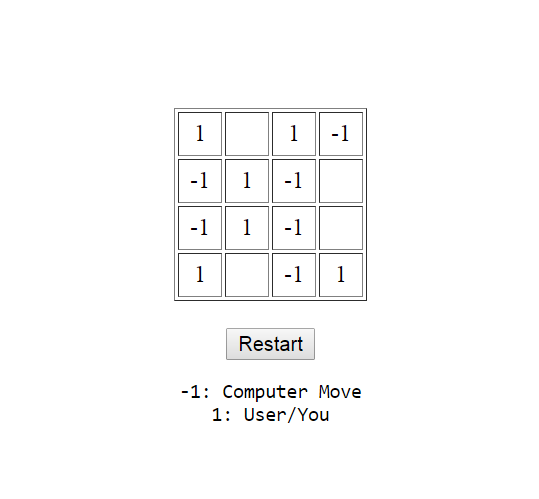
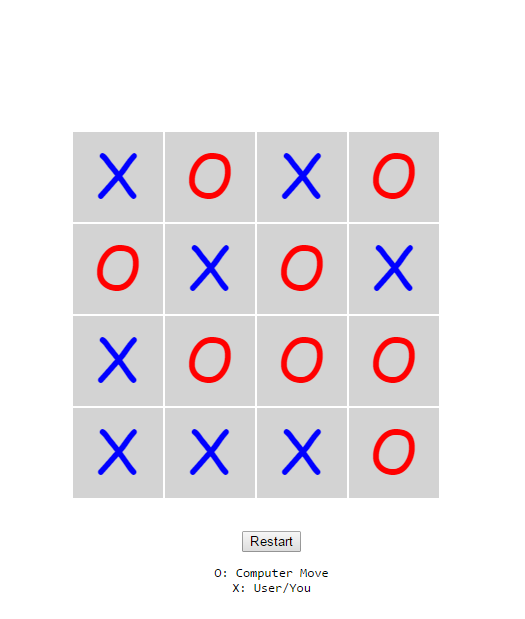
Changes: Beautifying the 4x4.html + ttt.css: moved styles from html to .css files + ttt4x4.png: screen snapshot file for launch page.

diff --git a/mvly/templates/ttt4x4.html b/mvly/templates/ttt4x4.html
@@ -1,25 +1,7 @@
 <!DOCTYPE html>
 <html>
     <head>
-        <style type="text/css">
-            #board td {
-            width: 18px;
-            height: 18px;
-            text-align: center;
-            }
-            body {
-                margin: 0;
-                padding: 0;
-                text-align: center; /* !!! */
-            }
-
-            .centered {
-                margin: 0 auto;
-                text-align: left;
-                width: 800px;
-            }
-
-        </style>
+        <link rel="stylesheet" type="text/css" href="/stylesheets/ttt.css" />
 
         <title>Tic-Tac-Toe Skeleton</title>
         <script type='text/javascript'>
@@ -32,8 +14,8 @@
                         [0, 0, 0, 0]
                 ];
                 var DRAW =  0;
-                var COMP = -1;
-                var USER =  1;
+                var COMP = 'O';   // -1
+                var USER =  'X';  //  1
                 var firstTime = 1;
 
                 // helpers
@@ -181,7 +163,7 @@
                 function play() {
                     if (this.innerHTML === '') {
                         this.innerHTML = USER;
-
+                        this.style.color='blue';
 
                         this.r = this.id.split(",")[0];
                         this.c = this.id.split(",")[1];
@@ -197,8 +179,8 @@
 
                         var rc = stepper[this.id];
                         console.log(rc);
-                        //var id = rc[0] + "," + rc[1];
                         document.getElementById(rc).innerHTML = COMP;
+                        document.getElementById(rc).style.color='red';
 
                         r = rc.split(",")[0];
                         c = rc.split(",")[1];
@@ -210,15 +192,40 @@
                     }
                 }
 
-                var cells = document.getElementById("board").getElementsByTagName("td");
-                for (var i in cells) {
-                   cells[i].onclick = play;
-                }
-                document.getElementById("reset").onclick = function() {
-                    for (var i in cells) {
-                       cells[i].innerHTML = '';
-                       reset_board();
+                for(var i =0; i < 4; i++){
+                    for(var j=0; j < 4; j++){
+                        document.getElementById(i+","+j).onclick = play;
                     }
+                }
+
+                document.getElementById("reset").onclick = function() {
+                    for(var i =0; i < 4; i++){
+                        for(var j=0; j < 4; j++){
+                            document.getElementById(i+","+j).innerHTML = '';
+                        }
+                    }
+                    reset_board();
+                }
+
+                function fillBox(cell){
+                    var isEmpty = occupied(cell);
+                    if(isEmpty){
+                        var player = findPlayerTurn();
+                        if(player===COMP){
+                            document.getElementById(cell).style.color='red';
+                        }
+                        if(player===USER){
+                            document.getElementById(cell).style.color='blue';
+                        }
+                    }
+                }
+
+                function occupied(cell){
+                    var free = document.getElementById(cell).innerHTML;
+                    if(free===USER || free===COMP){
+                        return false;
+                    }
+                    return true;
                 }
             }
         </script>
@@ -227,43 +234,34 @@
 
     <body>
     <br><br><br><br><br><br><br><br><br>
-    <div style="width: 60%; margin: 0px auto;">
-    <table id="board" border="1" cellpadding="5" align="center">
-        <tbody>
-            <tr>
-                <td id="0,0"></td>
-                <td id="0,1"></td>
-                <td id="0,2"></td>
-                <td id="0,3"></td>
-            </tr>
-            <tr>
-                <td id="1,0"></td>
-                <td id="1,1"></td>
-                <td id="1,2"></td>
-                <td id="1,3"></td>
-            </tr>
-            <tr>
-                <td id="2,0"></td>
-                <td id="2,1"></td>
-                <td id="2,2"></td>
-                <td id="2,3"></td>
-            </tr>
-            <tr>
-                <td id="3,0"></td>
-                <td id="3,1"></td>
-                <td id="3,2"></td>
-                <td id="3,3"></td>
-            </tr>
 
-        </tbody>
-    </table><br>
+    <div class="sqr" style="width:400px; margin:0 auto;">
+        <div id="0,0" onclick="fillBox('0,0')"></div>
+        <div id="0,1" onclick="fillBox('0,1')"></div>
+        <div id="0,2" onclick="fillBox('0,2')"></div>
+        <div id="0,3" onclick="fillBox('0,3')"></div>
+        <div id="1,0" onclick="fillBox('1,0')"></div>
+        <div id="1,1" onclick="fillBox('1,1')"></div>
+        <div id="1,2" onclick="fillBox('1,2')"></div>
+        <div id="1,3" onclick="fillBox('1,3')"></div>
+        <div id="2,0" onclick="fillBox('2,0')"></div>
+        <div id="2,1" onclick="fillBox('2,1')"></div>
+        <div id="2,2" onclick="fillBox('2,2')"></div>
+        <div id="2,3" onclick="fillBox('2,3')"></div>
+        <div id="3,0" onclick="fillBox('3,0')"></div>
+        <div id="3,1" onclick="fillBox('3,1')"></div>
+        <div id="3,2" onclick="fillBox('3,2')"></div>
+        <div id="3,3" onclick="fillBox('3,3')"></div>
+    </div>
     <button id="reset">Restart</button>
-        <pre>
--1: Computer Move
-1: User/You
+            <pre>
+O: Computer Move
+X: User/You
 
             </pre>
-        </div>
+
+
+
     <br><br><br><br><br><br><br><br><br>
 
     </body>

diff --git a/mvly/stylesheets/ttt.css b/mvly/stylesheets/ttt.css
@@ -1,7 +1,7 @@
 #board td {
-    width: 18px;
-    height: 18px;
-    text-align: center;
+width: 18px;
+height: 18px;
+text-align: center;
 }
 body {
     margin: 0;
@@ -13,4 +13,17 @@ body {
     margin: 0 auto;
     text-align: left;
     width: 800px;
+}
+
+.sqr{width:400px; height:400px}
+.sqr div{
+    float:left;
+    width:23%;
+    height:23%;
+    border:1px solid white;
+    box-sizing:border-box;
+    background-color:rgba(158, 158, 158, 0.45);
+    text-align: center;
+    font-size: 60px;
+    font-family:'Comic Sans MS', Helvetica, sans-serif;
 }
